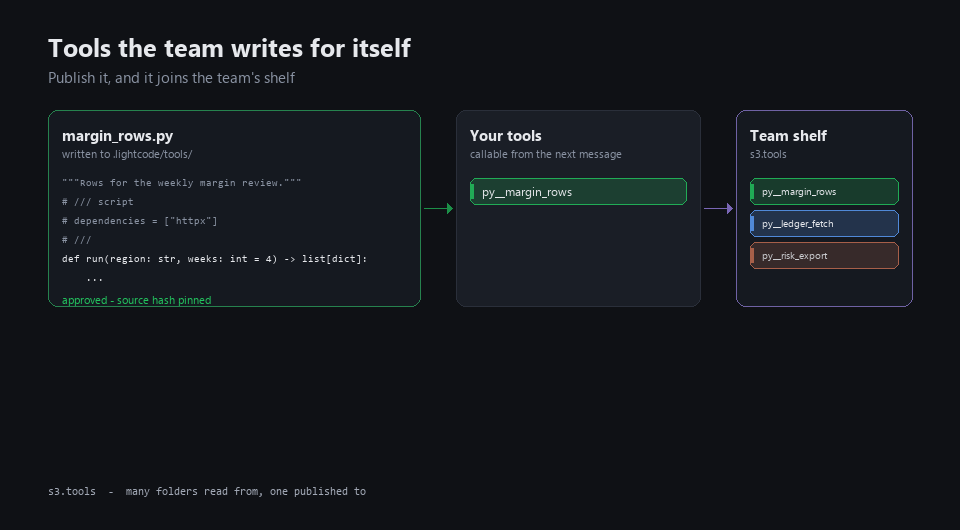
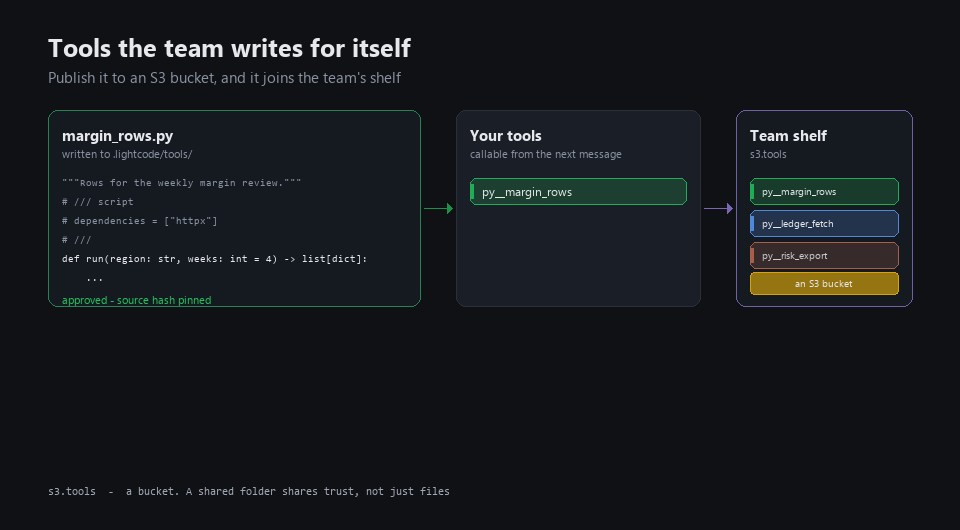
docs: name the bucket on the shelf, and what a shared folder costs instead
Asked for the limit to be visible in the animation. The team shelf now carries an
"an S3 bucket" badge and the footer note reads "a bucket. A shared folder shares
trust, not just files".

Worded that way rather than "S3 bucket only", which was the first attempt and is
not true: a shared network folder set as everyone's `python.toolsDir` does make the
tools available. What it also does is share the `.registry.json` with them, so one
person's approval becomes everybody's and two people writing at once race the same
file. The badge says what the shelf is; the note says what the other route costs.

Changed region(s): [[0.125, 0.1208, 0.4062, 0.1811], [0.125, 0.9057, 0.4688, 0.9358], [0.7812, 0.5132, 0.9375, 0.5736]]

diff --git a/scripts/generate-feature-gifs.py b/scripts/generate-feature-gifs.py
@@ -196,7 +196,7 @@ TOOL_CAPTIONS = (
     (0, "A skill says what analysis is needed - the assistant writes the tool for it"),
     (30, "You approve the source. Nothing runs until you have read it"),
     (54, "Registered, and callable from the next message"),
-    (76, "Publish it, and it joins the team's shelf"),
+    (76, "Publish it to an S3 bucket, and it joins the team's shelf"),
     (100, "A colleague's tool arrives unapproved - it cannot run yet"),
     (124, "You read it and approve it, from the chat"),
 )
@@ -205,7 +205,7 @@ TOOL_NOTES = (
     (0, "create_python_tool"),
     (30, "approval shows the full source  -  hash-pinned once approved"),
     (54, "py__margin_rows"),
-    (76, "s3.tools  -  many folders read from, one published to"),
+    (76, "s3.tools  -  a bucket. A shared folder shares trust, not just files"),
     (100, "each folder keeps its own .registry.json, so approval is per machine"),
     (124, "Approve all shows every source first  -  and Decline can be undone"),
 )
@@ -265,6 +265,18 @@ def scene_python_tools(frame: int):
     for index, (name, colour, _) in enumerate(TEAM_TOOLS):
         c.chip(750, 178 + index * 32, 148, 26, name, colour, over=SUNKEN,
                alpha=ramp(frame, 82 + index * 5, 8), font=F_MINI)
+    # Named on the picture, not only in the notes, because a shared drive looks like it would
+    # do the same job and does not do the same job. A bucket mirror syncs only `.py` into your
+    # own storage, so the approval registry beside them is yours - which is what makes the
+    # review per person. Pointing everyone's `toolsDir` at one network folder does share the
+    # tools, but it shares the registry with them: one person's "yes" becomes everybody's.
+    # The badge says what this shelf *is*; the note below says what the other route costs.
+    if shelf > 0.5:
+        c.d.rounded_rectangle((750, 272, 898, 294), radius=4,
+                              fill=blend(SUNKEN, blend(AMBER, SUNKEN, 0.4), shelf),
+                              outline=blend(SUNKEN, AMBER, shelf * 0.9), width=1)
+        c.label(824, 283, "an S3 bucket", font=F_MINI,
+                fill=blend(SUNKEN, TEXT, shelf), anchor="mm")
     c.arrow(704, 208, 732, 208, ramp(frame, 76, 6), blend(BG, PURPLE, 0.7))
     c.travellers(704, 208, 732, 208, frame, 78, 10, PURPLE, count=2)
 

diff --git a/docs/gifs/README.md b/docs/gifs/README.md
@@ -37,6 +37,15 @@ A GIF cannot be paused — PowerPoint plays one start to finish with no scrub ba
 `slides/` holds each animation cut into its own beats: every segment plays once, stops on its last
 frame, and waits there while you talk. See [slides/README.md](slides/README.md).
 
+## One limit the picture names out loud
+
+`python-tools.gif` marks the team shelf **an S3 bucket**, because a shared network folder looks
+like it would do the same job and does not. A bucket mirror syncs only `.py` files into your own
+storage, so the approval registry beside them is yours — which is what makes the review per person.
+Pointing everyone's `python.toolsDir` at one network folder *does* share the tools, but it shares
+the registry with them: one person's approval becomes everybody's, and two people writing at once
+race the same file. The footer note says as much.
+
 ## Three claims that were corrected before being drawn
 
 These are the interesting ones, because the first description of each was wrong in a way that
